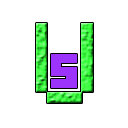
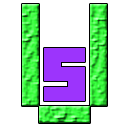
[Emergency] 0.2.0.1

diff --git a/src/main/java/me/inf32768/ultimatescaler/option/UltimateScalerOptions.java b/src/main/java/me/inf32768/ultimatescaler/option/UltimateScalerOptions.java
@@ -28,8 +28,8 @@ public class UltimateScalerOptions {
 
         private String[] globalOffsetStr = {"0.0", "0.0", "0.0"};
         private String[] globalScaleStr = {"1.0", "1.0", "1.0"};
-        private int optionMenuKeyCode;
-        private Modifier optionMenuModifier;
+        private int optionMenuKeyCode = GLFW.GLFW_KEY_U;
+        private Modifier optionMenuModifier = Modifier.of(false, true, false);
         public boolean showTerrainPos = true;
         public FarlandsPos farlandsPos = FarlandsPos.DEFAULT;
         public double farlandsCustomDivider = 33554432;

diff --git a/Changelog.md b/Changelog.md
@@ -66,3 +66,12 @@
 
 ### Bug Fixes
 - Fixed that the modded density function `shift` would return incorrect values.
+
+## 0.2.0.1 - 2025-5-29
+
+[Emergency]
+
+### Bug Fixes
+- [!] Fixed that the game could not launch.
+- Fixed that the mod icon was fuzzy.
+- Corrected the incorrect explanation in option menu.
